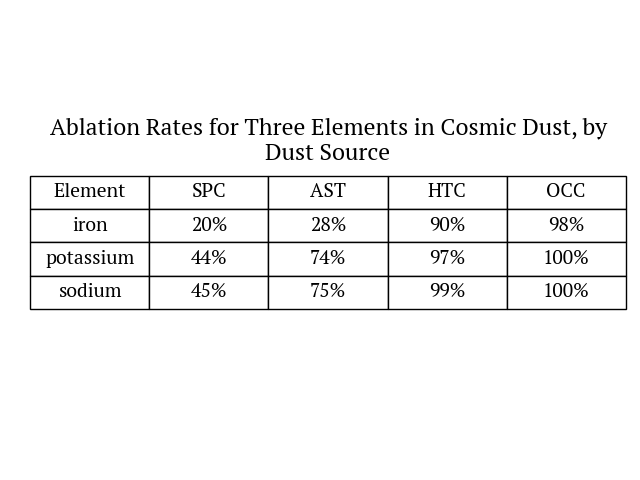
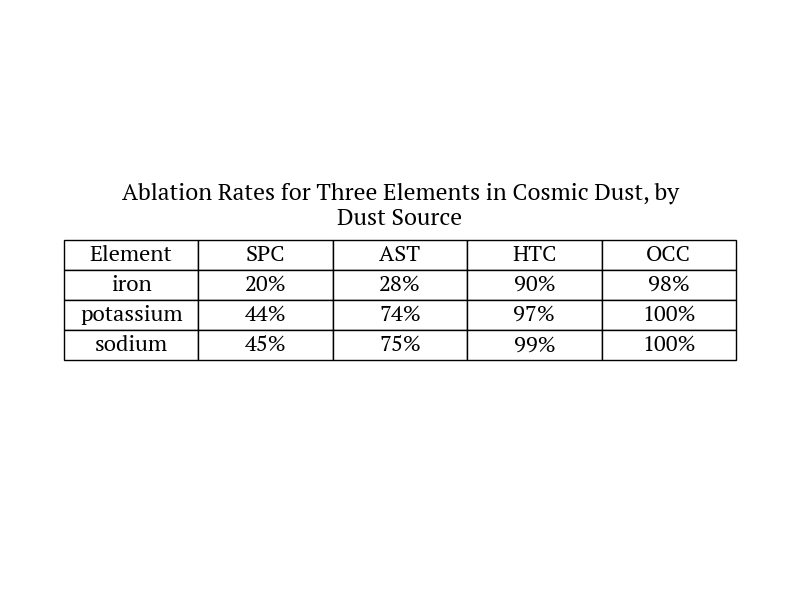
chore(scripts): add test4_module1_question17 and chart image

Changed region(s): [[0.0312, 0.25, 1.0, 0.6562]]

diff --git a/game/images/chart/chart.py b/game/images/chart/chart.py
@@ -35,15 +35,39 @@ plt.savefig(path('test4_module1_question13'))
 
 # test4_module1_question15
 plt.clf()
-col_labels = ['Element', 'SPC', 'AST', 'HTC', 'OCC']
 data = [
+    ['Element', 'SPC', 'AST', 'HTC', 'OCC'],
     ['iron', '20%', '28%', '90%', '98%'],
     ['potassium', '44%', '74%', '97%', '100%'],
     ['sodium', '45%', '75%', '99%', '100%']
 ]
-fig, ax = plt.subplots()
+fig, ax = plt.subplots(figsize=(8, 6))
 ax.axis('off')
-ax.set_title('Ablation Rates for Three Elements in Cosmic Dust, by\nDust Source', y=0.7)
-table = ax.table(cellText=data, loc='center', cellLoc='center', colLabels=col_labels)
-table.scale(1.2, 2)
+ax.set_title('Ablation Rates for Three Elements in Cosmic Dust, by\nDust Source', y=0.62)
+table = ax.table(cellText=data[1:], loc='center', cellLoc='center', colLabels=data[0])
+table.auto_set_font_size(False)
+table.set_fontsize(16)
+table.scale(1.5, 1.5)
+plt.tight_layout()
 plt.savefig(path('test4_module1_question15'))
+
+# test4_module1_question17
+plt.clf()
+data = [
+    ['Plant\nspecies', 'Mycorrhizal\nhost', 'Average mass of plants\ngrown in soil containing\nmycorrhizal fungi\n(in grams)', 'Average mass of plants\ngrown in soil treated\nto kill fungi (in grams)'],
+    ['Corn', 'yes', '15.1', '3.8'],
+    ['Marigold', 'yes', '10.2', '2.4'],
+    ['Broccoli', 'no', '7.5', '7'],
+]
+fig, ax = plt.subplots(figsize=(8, 6))
+ax.axis('off')
+ax.set_title('Effects of Mycorrhizal Fungi on 3 Plant Species', y=0.72)
+table = ax.table(cellText=data[1:], loc='center', cellLoc='center', colLabels=data[0], colWidths=[0.2, 0.2, 0.4, 0.4])
+cell_dict = table.get_celld()
+for i, col in enumerate(data[0]):
+    cell_dict[(0, i)].set_height(0.1)
+table.auto_set_font_size(False)
+table.set_fontsize(16)
+table.scale(1, 2)
+plt.tight_layout()
+plt.savefig(path('test4_module1_question17'))
